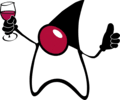
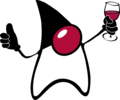
in the process of adding facing left

diff --git a/Game/Mascot-Mayhem/Player.java b/Game/Mascot-Mayhem/Player.java
@@ -17,6 +17,7 @@ public class Player extends Actor
     protected String hitImage;
     protected int damage;
     protected String baseSprite;
+    protected GreenfootImage leftSprite;
     protected boolean jumping;
     private int jumpTimer;
     private boolean blocking;
@@ -57,7 +58,7 @@ public class Player extends Actor
     private String input;
     protected int damageMultiplier=1;
     protected int aiDifficulty;
-    public Player(boolean playerOne,boolean aiControlled,int aiDifficulty)
+    public Player(boolean playerOne,boolean aiControlled,int aiDifficulty,String baseSprite)
     {
         this.playerOne=playerOne;
         this.aiControlled=aiControlled;
@@ -69,6 +70,11 @@ public class Player extends Actor
         else{
             ultimateBarPosition=p2UltimateBarPosition;
             healthBarPosition=p2HealthBarPosition;
+        }
+        leftSprite=new GreenfootImage(baseSprite);
+        leftSprite.mirrorHorizontally();
+        if(!playerOne){
+            setImage(leftSprite);
         }
     }
     
@@ -102,7 +108,6 @@ public class Player extends Actor
         int roll = Greenfoot.getRandomNumber(100);
         jumping();
         if(runningAway){
-            System.out.println("running away");
             runAway();
         }
         if(moving){
@@ -289,12 +294,24 @@ public class Player extends Actor
     {
         unblock();
         move(-1*speedMultiplier);
+        if(facingLeft){
+            facingLeft=false;
+            GreenfootImage sprite = getImage();
+            sprite.mirrorHorizontally();
+            setImage(sprite);
+        }
     }
     
     private void moveLeft()
     {
         unblock();
         move(1*speedMultiplier);
+        if(!facingLeft){
+            facingLeft=true;
+            GreenfootImage sprite = getImage();
+            sprite.mirrorHorizontally();
+            setImage(sprite);
+        }
     }
     
     private void crouch()
@@ -317,8 +334,10 @@ public class Player extends Actor
         }
     }
     protected void unblock(){
-        blocking=false;
-        setImage(baseSprite);
+        if(blocking){
+            blocking=false;
+            setImage(baseSprite);
+        }
     }
 
     public void makeStatic()
@@ -430,5 +449,10 @@ public class Player extends Actor
             }
             firstTime=false;
         }   
+    }
+    public void resetSprite(){
+        if(facingLeft){
+            Set
+        }
     }
 }

diff --git a/Game/Mascot-Mayhem/Gnu.java b/Game/Mascot-Mayhem/Gnu.java
@@ -11,7 +11,7 @@ public class Gnu extends Player
     private boolean clone;
     public Gnu(boolean playerOne,boolean aiControlled,int aiDifficulty,boolean clone)    
     {
-        super(playerOne,aiControlled,aiDifficulty);
+        super(playerOne,aiControlled,aiDifficulty,"gnu.temp");
         baseSprite="gnuTEMP.png";
         hitImage="images/gnuHeadbuttTEMP.png";//obviously not this CHANGE WHEN WE HAVE THE SPRITES 
         hitPoints=100;

diff --git a/Game/Mascot-Mayhem/Duke.java b/Game/Mascot-Mayhem/Duke.java
@@ -13,7 +13,7 @@ public class Duke extends Player
     private List players;
     public Duke(boolean playerOne,boolean aiControlled,int aiDifficulty)
     {
-        super(playerOne,aiControlled,aiDifficulty);  
+        super(playerOne,aiControlled,aiDifficulty,"duke.png");  
         baseSprite="dukeTEMP.png";
         hitImage="images/dukeHitTemp.png";//obviously not this CHANGE WHEN WE HAVE THE SPRITES 
         hitPoints=100;

diff --git a/Game/Mascot-Mayhem/Tux.java b/Game/Mascot-Mayhem/Tux.java
@@ -8,10 +8,10 @@ import java.util.*;
  * @version (a version number or a date)
  */
 public class Tux extends Player
-{    
+{   
     public Tux(boolean playerOne,boolean aiControlled,int aiDifficulty)
     {
-        super(playerOne,aiControlled,aiDifficulty);
+        super(playerOne,aiControlled,aiDifficulty,"tux.png");
         baseSprite="tux.png";
         hitImage="images/tuxKickTEMP.png";
         hitPoints=100;

diff --git a/Game/Mascot-Mayhem/Keith.java b/Game/Mascot-Mayhem/Keith.java
@@ -14,7 +14,7 @@ public class Keith extends Player
      */
     public Keith(boolean playerOne,boolean aiControlled,int aiDifficulty)
     {
-        super(playerOne,aiControlled,aiDifficulty);
+        super(playerOne,aiControlled,aiDifficulty,"mouse.png");
         baseSprite="mouse.png";
         hitImage="images/keithHitTEMP.png";//obviously not this CHANGE WHEN WE HAVE THE SPRITES 
         hitPoints=100;

diff --git a/Game/Mascot-Mayhem/Wilbur.java b/Game/Mascot-Mayhem/Wilbur.java
@@ -10,7 +10,7 @@ public class Wilbur extends Player
 {
     public Wilbur(boolean playerOne,boolean aiControlled,int aiDifficulty)
     {
-        super(playerOne,aiControlled,aiDifficulty);
+        super(playerOne,aiControlled,aiDifficulty,"tux.png");
         baseSprite="tux.png";
         hitImage="images/tuxKickTEMP.png";//obviously not this CHANGE WHEN WE HAVE THE SPRITES 
         hitPoints=10;

diff --git a/Game/Mascot-Mayhem/Suzanne.java b/Game/Mascot-Mayhem/Suzanne.java
@@ -10,7 +10,7 @@ public class Suzanne extends Player
 {
     public Suzanne(boolean playerOne,boolean aiControlled,int aiDifficulty)
     {
-        super(playerOne,aiControlled,aiDifficulty);
+        super(playerOne,aiControlled,aiDifficulty,"lemur.png");
         baseSprite="lemur.png";
         hitImage="images/suzannePunchTemp.png"; 
         hitPoints=100;
